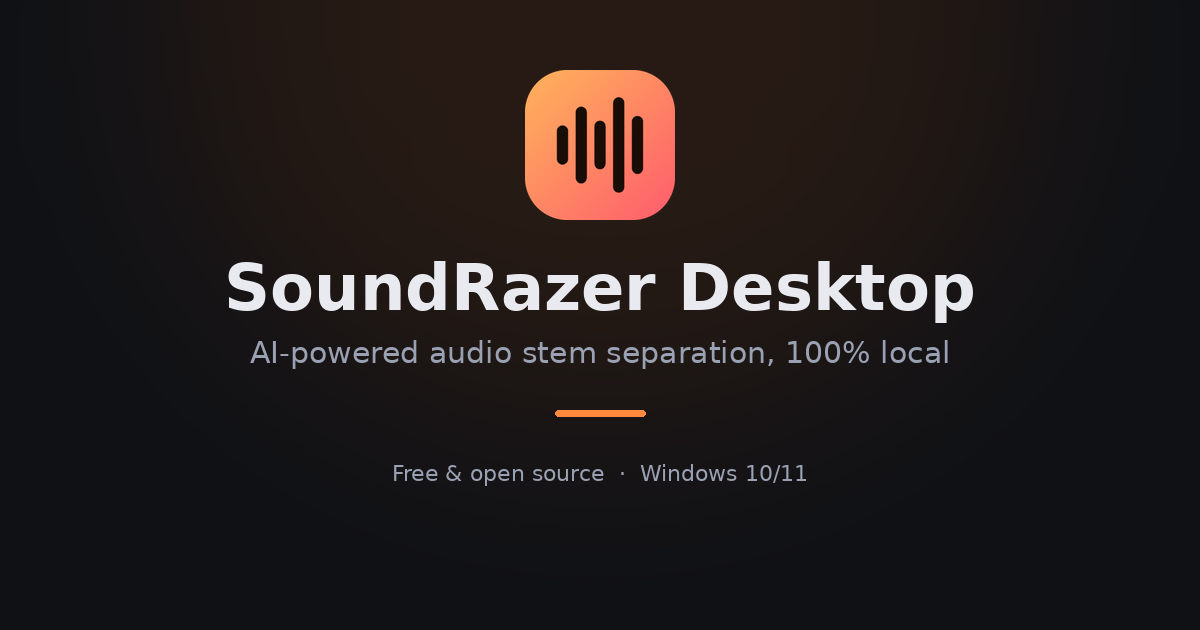
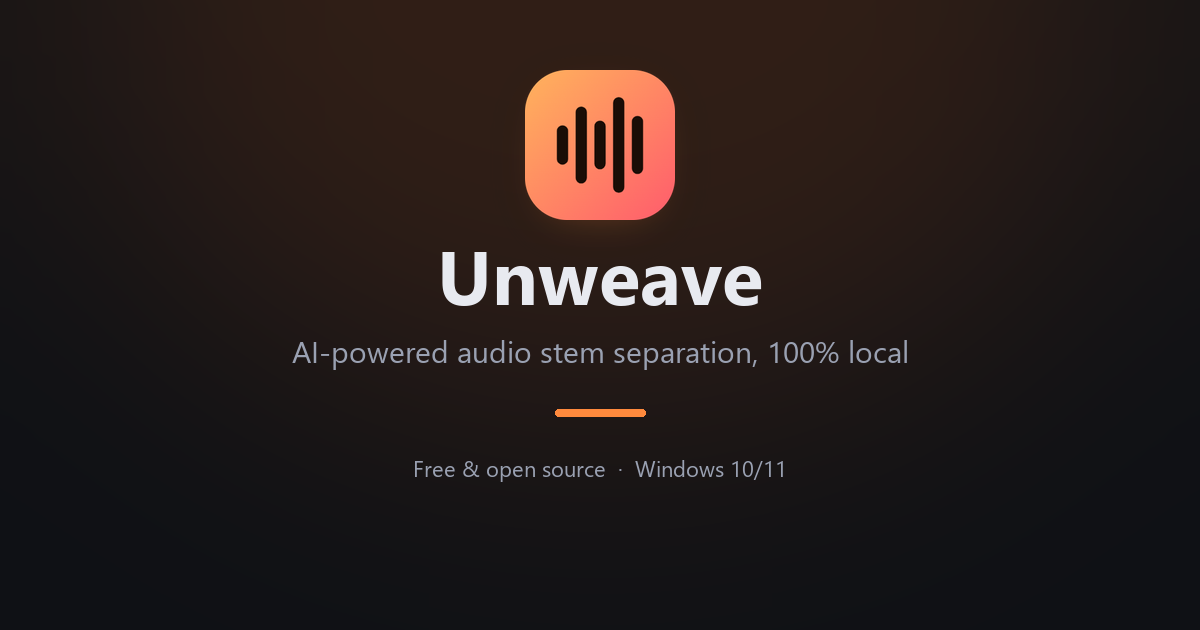
Recreate the link-preview image for Unweave, with its generator script

diff --git a/docs/assets/make_og_image.py b/docs/assets/make_og_image.py
@@ -1,0 +1,66 @@
+"""Regenerate og-image.png, the 1200x630 link-preview card for the landing page.
+
+    python docs/assets/make_og_image.py
+
+Needs Pillow. Uses Segoe UI on Windows, else DejaVu Sans.
+"""
+
+from pathlib import Path
+
+from PIL import Image, ImageDraw, ImageFilter, ImageFont
+
+HERE = Path(__file__).resolve().parent
+WIDTH, HEIGHT = 1200, 630
+BACKGROUND = (15, 17, 21)       # --bg on the landing page
+GLOW = (255, 138, 61)           # --accent
+TEXT = (232, 234, 240)          # --text
+MUTED = (154, 161, 178)         # --muted
+
+TITLE = "Unweave"
+SUBTITLE = "AI-powered audio stem separation, 100% local"
+FOOTNOTE = "Free & open source  ·  Windows 10/11"
+
+FONTS = {
+    "bold": [r"C:\Windows\Fonts\segoeuib.ttf", "/usr/share/fonts/truetype/dejavu/DejaVuSans-Bold.ttf"],
+    "regular": [r"C:\Windows\Fonts\segoeui.ttf", "/usr/share/fonts/truetype/dejavu/DejaVuSans.ttf"],
+}
+
+
+def font(weight: str, size: int) -> ImageFont.FreeTypeFont:
+    for path in FONTS[weight]:
+        if Path(path).is_file():
+            return ImageFont.truetype(path, size)
+    raise SystemExit(f"No {weight} font found; install Segoe UI or DejaVu Sans.")
+
+
+def centered(draw: ImageDraw.ImageDraw, y: int, text: str, face, fill) -> None:
+    left, top, right, bottom = draw.textbbox((0, 0), text, font=face)
+    draw.text(((WIDTH - (right - left)) / 2 - left, y - top), text, font=face, fill=fill)
+
+
+def main() -> None:
+    image = Image.new("RGB", (WIDTH, HEIGHT), BACKGROUND)
+
+    # A soft warm glow behind the icon, fading into the background.
+    glow = Image.new("RGB", (WIDTH, HEIGHT), BACKGROUND)
+    ImageDraw.Draw(glow).ellipse((WIDTH / 2 - 520, -380, WIDTH / 2 + 520, 420), fill=(48, 30, 22))
+    image = Image.blend(image, glow.filter(ImageFilter.GaussianBlur(140)), 1.0)
+
+    icon = Image.open(HERE / "icon-256.png").convert("RGBA").resize((150, 150), Image.LANCZOS)
+    shadow = Image.new("RGBA", (WIDTH, HEIGHT), (0, 0, 0, 0))
+    ImageDraw.Draw(shadow).rounded_rectangle((WIDTH / 2 - 70, 82, WIDTH / 2 + 70, 230), 36, fill=(*GLOW, 70))
+    image.paste(shadow.filter(ImageFilter.GaussianBlur(24)), (0, 0), shadow.filter(ImageFilter.GaussianBlur(24)))
+    image.paste(icon, ((WIDTH - 150) // 2, 70), icon)
+
+    draw = ImageDraw.Draw(image)
+    centered(draw, 252, TITLE, font("bold", 76), TEXT)
+    centered(draw, 340, SUBTITLE, font("regular", 30), MUTED)
+    draw.rounded_rectangle((WIDTH / 2 - 45, 409, WIDTH / 2 + 45, 416), 4, fill=GLOW)
+    centered(draw, 460, FOOTNOTE, font("regular", 22), MUTED)
+
+    image.save(HERE / "og-image.png", optimize=True)
+    print("wrote", HERE / "og-image.png")
+
+
+if __name__ == "__main__":
+    main()
